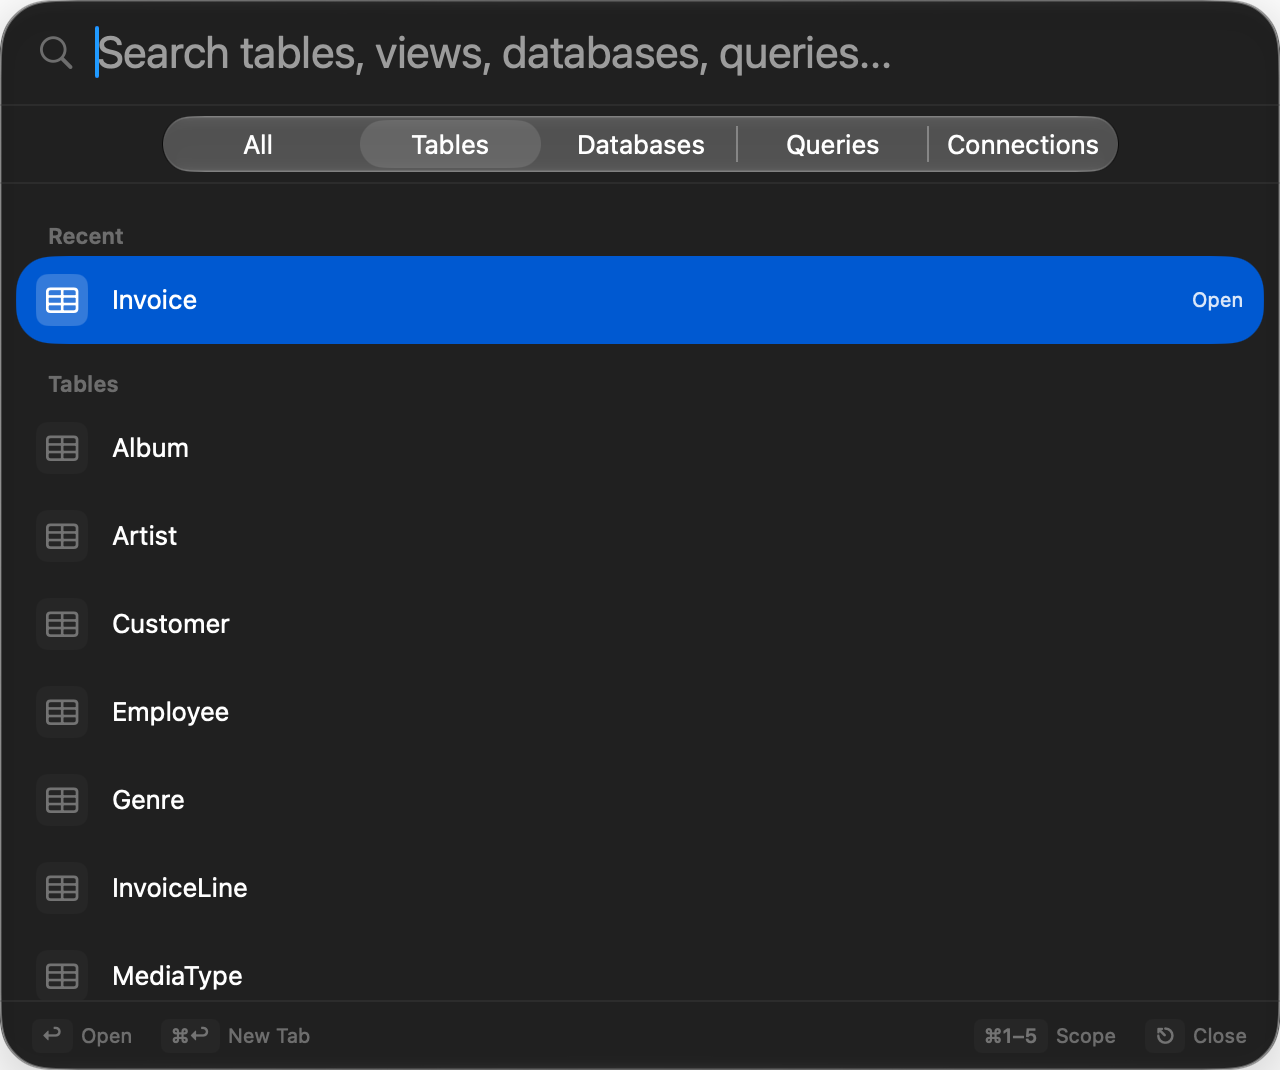
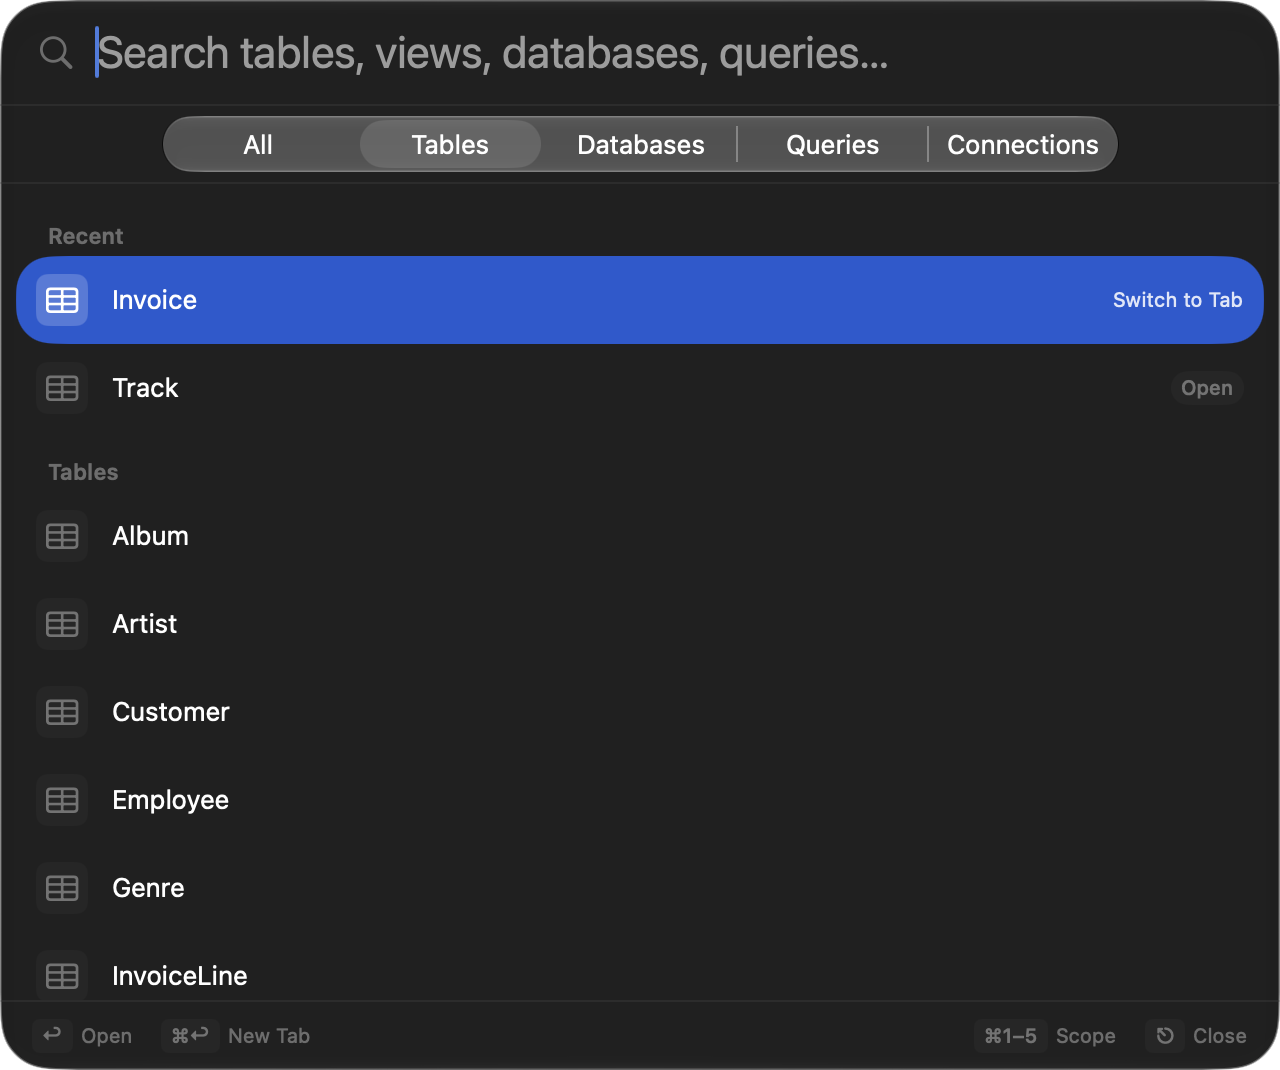
fix: remove rectangular quick switcher outline (#2321)
* fix: remove rectangular quick switcher outline

* docs: add quick switcher fix to changelog

* fix(hig): clip the Open Quickly glass to its own rounded shape

---------

diff --git a/TableProTests/Views/QuickSwitcherPanelControllerTests.swift b/TableProTests/Views/QuickSwitcherPanelControllerTests.swift
@@ -39,7 +39,10 @@ struct QuickSwitcherPanelControllerTests {
     @Test("panel resolves a non-zero frame from its content before showing")
     func panelResolvesNonZeroFrame() {
         let hostingController = NSHostingController(rootView: Text(verbatim: "content"))
-        let panel = QuickSwitcherPanel(hostingController: hostingController)
+        let panel = QuickSwitcherPanel(
+            hostingController: hostingController,
+            surfaceCornerRadius: QuickSwitcherMetrics.cornerRadius
+        )
         #expect(panel.frame.width > 0)
         #expect(panel.frame.height > 0)
         panel.close()
@@ -55,7 +58,10 @@ struct QuickSwitcherPanelControllerTests {
         let hostingController = NSHostingController(
             rootView: QuickSwitcherPanelContent(viewModel: viewModel) { _, _ in }
         )
-        let panel = QuickSwitcherPanel(hostingController: hostingController)
+        let panel = QuickSwitcherPanel(
+            hostingController: hostingController,
+            surfaceCornerRadius: QuickSwitcherMetrics.cornerRadius
+        )
         #expect(panel.frame.width >= 600, "the panel keeps its declared width")
         #expect(panel.frame.height > 100, "input row, scope chips and footer all have height")
         #expect(panel.frame.height < 900, "an unbounded height would mean the list grew without limit")
@@ -73,7 +79,10 @@ struct QuickSwitcherPanelControllerTests {
 
     @Test("panel can become key but not main")
     func panelKeyAndMainBehavior() {
-        let panel = QuickSwitcherPanel(hostingController: NSHostingController(rootView: Text(verbatim: "content")))
+        let panel = QuickSwitcherPanel(
+            hostingController: NSHostingController(rootView: Text(verbatim: "content")),
+            surfaceCornerRadius: QuickSwitcherMetrics.cornerRadius
+        )
         #expect(panel.canBecomeKey)
         #expect(panel.canBecomeMain == false)
         panel.close()
@@ -81,7 +90,10 @@ struct QuickSwitcherPanelControllerTests {
 
     @Test("resigning key closes the panel")
     func resignKeyClosesPanel() {
-        let panel = QuickSwitcherPanel(hostingController: NSHostingController(rootView: Text(verbatim: "content")))
+        let panel = QuickSwitcherPanel(
+            hostingController: NSHostingController(rootView: Text(verbatim: "content")),
+            surfaceCornerRadius: QuickSwitcherMetrics.cornerRadius
+        )
         panel.makeKeyAndOrderFront(nil)
         #expect(panel.isVisible)
         panel.resignKey()
@@ -90,7 +102,10 @@ struct QuickSwitcherPanelControllerTests {
 
     @Test("escape closes the panel")
     func escapeClosesPanel() {
-        let panel = QuickSwitcherPanel(hostingController: NSHostingController(rootView: Text(verbatim: "content")))
+        let panel = QuickSwitcherPanel(
+            hostingController: NSHostingController(rootView: Text(verbatim: "content")),
+            surfaceCornerRadius: QuickSwitcherMetrics.cornerRadius
+        )
         panel.makeKeyAndOrderFront(nil)
         #expect(panel.isVisible)
         panel.cancelOperation(nil)
@@ -99,9 +114,36 @@ struct QuickSwitcherPanelControllerTests {
 
     @Test("panel uses a nonactivating borderless style mask")
     func panelStyleMask() {
-        let panel = QuickSwitcherPanel(hostingController: NSHostingController(rootView: Text(verbatim: "content")))
+        let panel = QuickSwitcherPanel(
+            hostingController: NSHostingController(rootView: Text(verbatim: "content")),
+            surfaceCornerRadius: QuickSwitcherMetrics.cornerRadius
+        )
         #expect(panel.styleMask.contains(.nonactivatingPanel))
         #expect(panel.styleMask.contains(.borderless))
+        panel.close()
+    }
+
+    /// The radius asserted here is the one the panel was handed, not the metric the panel could
+    /// read for itself, so the test fails if the mask ever stops following the shape its content
+    /// draws. Asserting it against `QuickSwitcherMetrics.cornerRadius` would pass for any radius,
+    /// including one the surface no longer uses.
+    @Test("panel masks its content to the surface shape it was given")
+    func panelMasksContentToSurfaceShape() throws {
+        let surfaceCornerRadius: CGFloat = 19
+        let panel = QuickSwitcherPanel(
+            hostingController: NSHostingController(rootView: Text(verbatim: "content")),
+            surfaceCornerRadius: surfaceCornerRadius
+        )
+        let contentView = try #require(panel.contentViewController?.view)
+        #expect(panel.hasShadow)
+        if #available(macOS 26.0, *) {
+            let contentLayer = try #require(contentView.layer)
+            #expect(contentLayer.cornerRadius == surfaceCornerRadius)
+            #expect(contentLayer.cornerCurve == .continuous)
+            #expect(contentLayer.masksToBounds)
+        } else {
+            #expect(contentView.layer?.masksToBounds != true, "the surface clips itself below macOS 26")
+        }
         panel.close()
     }
 }

diff --git a/TablePro/Views/QuickSwitcher/QuickSwitcherPanel.swift b/TablePro/Views/QuickSwitcher/QuickSwitcherPanel.swift
@@ -9,7 +9,7 @@ import SwiftUI
 private let fallbackScreenFrame = NSRect(x: 0, y: 0, width: 1_280, height: 800)
 
 internal final class QuickSwitcherPanel: NSPanel {
-    init<Content: View>(hostingController: NSHostingController<Content>) {
+    init<Content: View>(hostingController: NSHostingController<Content>, surfaceCornerRadius: CGFloat) {
         hostingController.sizingOptions = []
         let proposal = NSScreen.main?.visibleFrame.size ?? fallbackScreenFrame.size
         let contentSize = hostingController.sizeThatFits(in: proposal)
@@ -35,6 +35,25 @@ internal final class QuickSwitcherPanel: NSPanel {
         animationBehavior = .utilityWindow
         contentViewController = hostingController
         setContentSize(contentSize)
+        maskContentToSurfaceShape(cornerRadius: surfaceCornerRadius)
+    }
+
+    /// Liquid Glass paints a faint wash across the hosting view's whole bounds, outside the shape
+    /// handed to `glassEffect`, and SwiftUI cannot reach it: the glass backdrop is a layer beneath
+    /// the SwiftUI render tree, so a `clipShape` over the surface leaves the wash exactly as it is.
+    /// Measured on macOS 27 by capturing the panel window without its shadow: the corners outside
+    /// the rounded surface carry alpha 5 to 11 unmasked and 0 masked, a `clipShape` on the surface
+    /// changes nothing, and removing the `GlassEffectContainer` changes nothing either. That wash
+    /// over the square window bounds is the outline this masks away. Below macOS 26 the surface
+    /// clips itself and its corners already measure 0, so the mask would buy nothing there and only
+    /// cost the offscreen pass that rounding a layer with sublayers forces.
+    private func maskContentToSurfaceShape(cornerRadius: CGFloat) {
+        guard #available(macOS 26.0, *), let contentView = contentViewController?.view else { return }
+        contentView.wantsLayer = true
+        guard let layer = contentView.layer else { return }
+        layer.cornerRadius = cornerRadius
+        layer.cornerCurve = .continuous
+        layer.masksToBounds = true
     }
 
     override var canBecomeKey: Bool { true }
@@ -74,7 +93,10 @@ internal final class QuickSwitcherPanelController: NSObject, NSWindowDelegate {
         }
         let hostingController = NSHostingController(rootView: sizeReportingContent)
 
-        let panel = QuickSwitcherPanel(hostingController: hostingController)
+        let panel = QuickSwitcherPanel(
+            hostingController: hostingController,
+            surfaceCornerRadius: QuickSwitcherMetrics.cornerRadius
+        )
         panel.delegate = self
         self.panel = panel
 

diff --git a/CHANGELOG.md b/CHANGELOG.md
@@ -77,6 +77,7 @@ and this project adheres to [Semantic Versioning](https://semver.org/spec/v2.0.0
 
 ### Fixed
 
+- Open Quickly no longer shows a faint rectangular outline around its rounded Liquid Glass surface on macOS 26 and later. The glass was tinting the panel's square window bounds outside its own corners. The panel keeps its drop shadow, and macOS 14 and 15 are unchanged. (#2321)
 - Skip and Continue no longer gives up on the first unreadable line of a JSON file. A line the parser cannot read is recorded against its line number like any other failed row, and the rest of the file still imports. The stop modes still stop, as they should.
 - An import no longer reports rows as imported when nothing was written for them. A row carrying values that matched no mapped column used to be dropped in silence and still counted, so the summary claimed more rows than reached the database. Skip and Continue now names it, and the stop modes stop.
 - Retrying an import of a compressed .sql file no longer leaves the expanded copy behind in the temporary folder each time.
